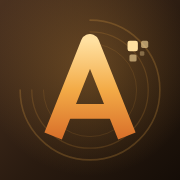
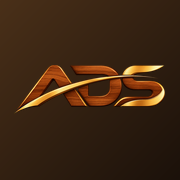
Add files via upload

diff --git a/index.html b/index.html
@@ -3,44 +3,44 @@
 <head>
 <meta charset="UTF-8">
 <meta name="viewport" content="width=device-width,initial-scale=1,viewport-fit=cover">
-<title>ABY Digital | Website &amp; Sistem Digital untuk Bisnis Modern</title>
-<meta name="description" content="Punya ide bisnis? Wujudkan jadi website, sistem informasi & dashboard modern yang siap menarik pelanggan. 19+ project nyata sudah dibangun. Konsultasi GRATIS sekarang!">
+<title>ADS (Abi Digital Solutions) | Website, Toko Online &amp; Sistem Bisnis Modern 2026</title>
+<meta name="description" content="Go Digital, Grow Bigger! ADS (Abi Digital Solutions) membuat website profesional, toko online, aplikasi &amp; dashboard bisnis yang cepat, modern, dan siap menjual. 19+ proyek nyata. Konsultasi GRATIS via WhatsApp.">
 <meta name="theme-color" content="#16100b">
 <meta name="robots" content="index,follow,max-image-preview:large">
 <link rel="manifest" href="manifest.webmanifest">
 <meta name="mobile-web-app-capable" content="yes">
 <meta name="apple-mobile-web-app-capable" content="yes">
-<meta name="apple-mobile-web-app-title" content="ABY Digital">
+<meta name="apple-mobile-web-app-title" content="ADS">
 <meta name="apple-mobile-web-app-status-bar-style" content="black-translucent">
-<meta name="application-name" content="ABY Digital">
+<meta name="application-name" content="ADS (Abi Digital Solutions)">
 <meta name="format-detection" content="telephone=no">
 <link rel="canonical" href="https://benyoriki.github.io/Digital-AB/">
 <meta property="og:type" content="website">
-<meta property="og:site_name" content="ABY Digital">
+<meta property="og:site_name" content="ADS (Abi Digital Solutions)">
 <meta property="og:locale" content="id_ID">
 <meta property="og:url" content="https://benyoriki.github.io/Digital-AB/">
-<meta property="og:title" content="ABY Digital | Website, Toko Online &amp; Sistem Booking untuk Bisnis Modern">
-<meta property="og:description" content="Bisnis Anda layak tampil lebih profesional. Website cepat, rapi di HP &amp; PC, siap menarik pelanggan. 19+ project nyata. Konsultasi GRATIS via WhatsApp 🚀">
-<meta property="og:image" content="https://benyoriki.github.io/Digital-AB/preview-wa.jpg?v=3">
-<meta property="og:image:secure_url" content="https://benyoriki.github.io/Digital-AB/preview-wa.jpg?v=3">
+<meta property="og:title" content="ADS (Abi Digital Solutions) | Website Profesional yang Bikin Bisnis Anda Naik Kelas">
+<meta property="og:description" content="Go Digital, Grow Bigger 🚀 Website, toko online &amp; dashboard modern: cepat, tampil premium, siap menjual. 19+ proyek nyata. Konsultasi GRATIS sekarang!">
+<meta property="og:image" content="https://benyoriki.github.io/Digital-AB/preview-wa.jpg?v=6">
+<meta property="og:image:secure_url" content="https://benyoriki.github.io/Digital-AB/preview-wa.jpg?v=6">
 <meta property="og:image:type" content="image/jpeg">
 <meta property="og:image:width" content="1200">
-<meta property="og:image:height" content="630">
-<meta property="og:image:alt" content="ABY Digital: Solusi Digital untuk Bisnis yang Lebih Cepat. Website, toko online, sistem booking, dashboard. Konsultasi gratis.">
+<meta property="og:image:height" content="628">
+<meta property="og:image:alt" content="ADS (Abi Digital Solutions): Solusi Digital untuk Bisnis Anda. Website profesional, toko online, aplikasi web &amp; mobile, sistem bisnis &amp; dashboard. Go Digital, Grow Bigger!">
 <meta name="twitter:card" content="summary_large_image">
-<meta name="twitter:title" content="ABY Digital | Website, Toko Online &amp; Sistem Booking untuk Bisnis Modern">
-<meta name="twitter:description" content="Bisnis Anda layak tampil lebih profesional. Website cepat, rapi di HP &amp; PC, siap menarik pelanggan. 19+ project nyata. Konsultasi GRATIS via WhatsApp 🚀">
-<meta name="twitter:image" content="https://benyoriki.github.io/Digital-AB/preview-wa.jpg?v=3">
+<meta name="twitter:title" content="ADS (Abi Digital Solutions) | Website Profesional yang Bikin Bisnis Anda Naik Kelas">
+<meta name="twitter:description" content="Go Digital, Grow Bigger 🚀 Website, toko online &amp; dashboard modern: cepat, tampil premium, siap menjual. 19+ proyek nyata. Konsultasi GRATIS sekarang!">
+<meta name="twitter:image" content="https://benyoriki.github.io/Digital-AB/preview-wa.jpg?v=6">
 <link rel="icon" type="image/png" sizes="32x32" href="icons/favicon-32.png">
 <link rel="icon" type="image/png" sizes="64x64" href="favicon.png">
 <link rel="apple-touch-icon" href="apple-touch-icon.png">
-<link rel="preload" as="image" href="assets/logo-384.webp" type="image/webp">
+<link rel="preload" as="image" href="assets/logo-wide.webp" type="image/webp">
 <link rel="preconnect" href="https://fonts.googleapis.com">
 <link rel="preconnect" href="https://fonts.gstatic.com" crossorigin>
 <link href="https://fonts.googleapis.com/css2?family=Fraunces:wght@700;800&family=Plus+Jakarta+Sans:wght@400;500;600;700;800&display=swap" rel="stylesheet">
 <link rel="stylesheet" href="style.css">
-<script type="application/ld+json">{"@context":"https://schema.org","@type":"ProfessionalService","name":"ABY Digital","url":"https://benyoriki.github.io/Digital-AB/","image":"https://benyoriki.github.io/Digital-AB/preview-wa.jpg?v=3","telephone":"+6285694993097","description":"Jasa pembuatan website, sistem informasi, dashboard dan solusi digital untuk bisnis.","areaServed":"ID","sameAs":[]}</script>
-<script type="application/ld+json">{"@context": "https://schema.org", "@type": "FAQPage", "mainEntity": [{"@type": "Question", "name": "Berapa biaya pembuatan website?", "acceptedAnswer": {"@type": "Answer", "text": "Setiap bisnis punya kebutuhan berbeda, jadi biaya disusun sesuai fitur, kompleksitas, dan jenis project Anda, bukan paket seragam yang membuat Anda membayar fitur yang tidak dipakai. Ceritakan ide Anda lewat WhatsApp dan Anda akan menerima penawaran yang jelas sebelum pengerjaan dimulai. Konsultasi awal 100% gratis."}}, {"@type": "Question", "name": "Berapa lama website selesai dikerjakan?", "acceptedAnswer": {"@type": "Answer", "text": "Tergantung ruang lingkupnya. Website profil atau katalog umumnya lebih cepat, sedangkan sistem dengan dashboard, booking, atau database memerlukan tahapan yang lebih panjang. Estimasi waktu disepakati sejak awal, dan Anda bisa memantau perkembangannya di setiap tahap."}}, {"@type": "Question", "name": "Apakah website nyaman dibuka di HP?", "acceptedAnswer": {"@type": "Answer", "text": "Sangat nyaman. Setiap website dirancang mobile-first: tampil rapi di HP, tablet, dan desktop, ringan saat dibuka, dan tombolnya mudah disentuh. Ini penting karena sebagian besar calon pelanggan kini mencari bisnis lewat HP."}}, {"@type": "Question", "name": "Bisakah website dipasang seperti aplikasi di HP?", "acceptedAnswer": {"@type": "Answer", "text": "Bisa. Dengan teknologi PWA, website dapat dipasang ke layar utama HP lengkap dengan ikon sendiri, terbuka layaknya aplikasi, dan tetap bisa diakses saat koneksi lemah. Website ABY Digital ini sendiri sudah mendukungnya: ketuk tombol Install untuk mencobanya."}}, {"@type": "Question", "name": "Jenis website apa saja yang bisa dibuat?", "acceptedAnswer": {"@type": "Answer", "text": "Website bisnis dan company profile, katalog produk, toko online, sistem booking dan antrean, sistem informasi, dashboard monitoring, hingga aplikasi web khusus. Lihat 19+ project nyata di bagian Portfolio, semuanya bisa dicoba langsung."}}, {"@type": "Question", "name": "Apakah bisa menambah fitur setelah website selesai?", "acceptedAnswer": {"@type": "Answer", "text": "Bisa. Tersedia layanan maintenance dan pengembangan untuk perbaikan, update konten, penambahan fitur, dan optimasi. Website Anda dibangun agar mudah berkembang mengikuti pertumbuhan bisnis."}}, {"@type": "Question", "name": "Bagaimana dengan domain dan hosting?", "acceptedAnswer": {"@type": "Answer", "text": "Website dipublikasikan hingga benar-benar siap digunakan. Opsi domain dan hosting dibahas bersama sesuai kebutuhan dan anggaran Anda, sehingga Anda tidak perlu bingung soal teknis."}}, {"@type": "Question", "name": "Bagaimana cara memulai?", "acceptedAnswer": {"@type": "Answer", "text": "Cukup tiga langkah: klik tombol WhatsApp, ceritakan kebutuhan dan target bisnis Anda, lalu kita susun rencana dan penawaran yang sesuai. Alur lengkapnya bisa dilihat di bagian Proses Kerja."}}]}</script>
+<script type="application/ld+json">{"@context":"https://schema.org","@type":"ProfessionalService","name":"ADS (Abi Digital Solutions)","alternateName":["ADS","Abi Digital Solutions"],"url":"https://benyoriki.github.io/Digital-AB/","image":"https://benyoriki.github.io/Digital-AB/preview-wa.jpg?v=6","telephone":"+6285694993097","description":"Jasa pembuatan website, sistem informasi, dashboard dan solusi digital untuk bisnis.","areaServed":"ID","sameAs":[]}</script>
+<script type="application/ld+json">{"@context": "https://schema.org", "@type": "FAQPage", "mainEntity": [{"@type": "Question", "name": "Berapa biaya pembuatan website?", "acceptedAnswer": {"@type": "Answer", "text": "Setiap bisnis punya kebutuhan berbeda, jadi biaya disusun sesuai fitur, kompleksitas, dan jenis project Anda, bukan paket seragam yang membuat Anda membayar fitur yang tidak dipakai. Ceritakan ide Anda lewat WhatsApp dan Anda akan menerima penawaran yang jelas sebelum pengerjaan dimulai. Konsultasi awal 100% gratis."}}, {"@type": "Question", "name": "Berapa lama website selesai dikerjakan?", "acceptedAnswer": {"@type": "Answer", "text": "Tergantung ruang lingkupnya. Website profil atau katalog umumnya lebih cepat, sedangkan sistem dengan dashboard, booking, atau database memerlukan tahapan yang lebih panjang. Estimasi waktu disepakati sejak awal, dan Anda bisa memantau perkembangannya di setiap tahap."}}, {"@type": "Question", "name": "Apakah website nyaman dibuka di HP?", "acceptedAnswer": {"@type": "Answer", "text": "Sangat nyaman. Setiap website dirancang mobile-first: tampil rapi di HP, tablet, dan desktop, ringan saat dibuka, dan tombolnya mudah disentuh. Ini penting karena sebagian besar calon pelanggan kini mencari bisnis lewat HP."}}, {"@type": "Question", "name": "Bisakah website dipasang seperti aplikasi di HP?", "acceptedAnswer": {"@type": "Answer", "text": "Bisa. Dengan teknologi PWA, website dapat dipasang ke layar utama HP lengkap dengan ikon sendiri, terbuka layaknya aplikasi, dan tetap bisa diakses saat koneksi lemah. Website ADS (Abi Digital Solutions) ini sendiri sudah mendukungnya: ketuk tombol Install untuk mencobanya."}}, {"@type": "Question", "name": "Jenis website apa saja yang bisa dibuat?", "acceptedAnswer": {"@type": "Answer", "text": "Website bisnis dan company profile, katalog produk, toko online, sistem booking dan antrean, sistem informasi, dashboard monitoring, hingga aplikasi web khusus. Lihat 19+ project nyata di bagian Portfolio, semuanya bisa dicoba langsung."}}, {"@type": "Question", "name": "Apakah bisa menambah fitur setelah website selesai?", "acceptedAnswer": {"@type": "Answer", "text": "Bisa. Tersedia layanan maintenance dan pengembangan untuk perbaikan, update konten, penambahan fitur, dan optimasi. Website Anda dibangun agar mudah berkembang mengikuti pertumbuhan bisnis."}}, {"@type": "Question", "name": "Bagaimana dengan domain dan hosting?", "acceptedAnswer": {"@type": "Answer", "text": "Website dipublikasikan hingga benar-benar siap digunakan. Opsi domain dan hosting dibahas bersama sesuai kebutuhan dan anggaran Anda, sehingga Anda tidak perlu bingung soal teknis."}}, {"@type": "Question", "name": "Bagaimana cara memulai?", "acceptedAnswer": {"@type": "Answer", "text": "Cukup tiga langkah: klik tombol WhatsApp, ceritakan kebutuhan dan target bisnis Anda, lalu kita susun rencana dan penawaran yang sesuai. Alur lengkapnya bisa dilihat di bagian Proses Kerja."}}]}</script>
 <script>
 (function(){var d=document.documentElement;d.classList.add('js','ld-on');var t;try{t=localStorage.getItem('theme')}catch(e){}
 if(!t)t=(window.matchMedia&&matchMedia('(prefers-color-scheme: light)').matches)?'light':'dark';d.dataset.theme=t;
@@ -55,10 +55,10 @@ var m=document.querySelector('meta[name=theme-color]');if(m)m.content=t==='light
   <i class="ld-glow" aria-hidden="true"></i><i class="ld-pt" aria-hidden="true"></i>
   <div class="ld-in">
     <div class="ld-mark">
-      <svg class="ld-ring" viewBox="0 0 120 120" aria-hidden="true"><defs><linearGradient id="ldg" x1="0" y1="0" x2="1" y2="1"><stop offset="0" stop-color="#ffe6b8"/><stop offset=".55" stop-color="#f2b050"/><stop offset="1" stop-color="#e8903a"/></linearGradient></defs><rect class="trk" x="6" y="6" width="108" height="108" rx="28"/><rect class="val" id="ldring" x="6" y="6" width="108" height="108" rx="28" pathLength="100"/></svg>
-      <img src="assets/logo-384.webp" alt="" width="384" height="384">
+      <svg class="ld-ring" viewBox="0 0 260 100" aria-hidden="true"><defs><linearGradient id="ldg" x1="0" y1="0" x2="1" y2="1"><stop offset="0" stop-color="#ffe6b8"/><stop offset=".55" stop-color="#f2b050"/><stop offset="1" stop-color="#e8903a"/></linearGradient></defs><rect class="trk" x="3" y="3" width="254" height="94" rx="26"/><rect class="val" id="ldring" x="3" y="3" width="254" height="94" rx="26" pathLength="100"/></svg>
+      <img src="assets/logo-wide.webp" alt="ADS" width="900" height="345">
     </div>
-    <div class="ld-name" aria-hidden="true"><b><i style="--i:0">A</i><i style="--i:1">B</i><i style="--i:2">Y</i></b><b><i style="--i:3">D</i><i style="--i:4">i</i><i style="--i:5">g</i><i style="--i:6">i</i><i style="--i:7">t</i><i style="--i:8">a</i><i style="--i:9">l</i></b></div>
+    <div class="ld-name" aria-hidden="true"><b class="sub"><i style="--i:4">Abi</i><i style="--i:5">Digital</i><i style="--i:6">Solutions</i></b></div>
     <div class="ld-tag">Digital Solutions for Modern Business</div>
     <div class="ld-pct" aria-hidden="true"><b id="ldn">0</b><span>%</span></div>
     <div class="ld-tx" id="ldtx">Menyiapkan tampilan…</div>
@@ -71,13 +71,13 @@ var m=document.querySelector('meta[name=theme-color]');if(m)m.content=t==='light
 
 <header class="nav" id="nav">
   <div class="nav-in">
-    <a class="logo" href="#home" aria-label="ABY Digital"><img src="assets/logo-128.webp" alt="" width="44" height="44"><span>ABY<i>Digital</i></span></a>
+    <a class="logo" href="#home" aria-label="ADS (Abi Digital Solutions)"><img src="assets/logo-wide.webp" alt="ADS" width="900" height="345"><span><i>Abi Digital Solutions</i></span></a>
     <nav id="menu" aria-label="Menu utama">
       <a href="#home">Home</a><a href="#layanan">Layanan</a><a href="#portfolio">Portfolio</a><a href="#tentang">Tentang</a><a href="#proses">Proses Kerja</a><a href="#kontak">Kontak</a>
       <a class="menu-cta" data-wa href="#">Konsultasi Gratis</a>
     </nav>
     <a class="btn sm wa nav-cta" data-wa href="#">Konsultasi Gratis</a>
-    <button class="btn sm ghost install-btn" id="inst" type="button" hidden aria-label="Install aplikasi ABY Digital"><span data-icon="download"></span><b>Install</b></button>
+    <button class="btn sm ghost install-btn" id="inst" type="button" hidden aria-label="Install aplikasi ADS (Abi Digital Solutions)"><span data-icon="download"></span><b>Install</b></button>
     <button class="icon-btn" id="theme" aria-label="Ganti mode terang/gelap"><span class="sun" data-icon="sun"></span><span class="moon" data-icon="moon"></span></button>
     <button class="icon-btn burger" id="burger" aria-label="Buka menu" aria-expanded="false" aria-controls="menu"><i></i><i></i><i></i></button>
   </div>
@@ -123,10 +123,10 @@ var m=document.querySelector('meta[name=theme-color]');if(m)m.content=t==='light
 
 <!-- TENTANG -->
 <section class="sec" id="tentang"><div class="wrap about">
-  <div class="photo rv" id="photo"><div class="bcard"><div class="bglow" aria-hidden="true"></div><img src="assets/logo-384.webp" alt="Logo ABY Digital" width="384" height="384" loading="lazy"><strong>ABY Digital</strong><small>Digital Solutions for Modern Business</small><ul class="bmini"><li><b>19+</b>Proyek</li><li><b>6</b>Layanan</li><li><b>24/7</b>Online</li></ul></div><span class="pbadge"><b>19</b> proyek nyata</span></div>
+  <div class="photo rv" id="photo"><div class="bcard"><div class="bglow" aria-hidden="true"></div><img src="assets/logo-wide.webp" alt="Logo ADS (Abi Digital Solutions)" width="900" height="345" loading="lazy"><strong>Abi Digital Solutions</strong><small>Digital Solutions for Modern Business</small><ul class="bmini"><li><b>19+</b>Proyek</li><li><b>6</b>Layanan</li><li><b>24/7</b>Online</li></ul></div><span class="pbadge"><b>19</b> proyek nyata</span></div>
   <div class="rv">
     <span class="eyebrow">Tentang</span>
-    <h2>Kenalan dengan <em>ABY Digital.</em></h2>
+    <h2>Kenalan dengan <em>ADS (Abi Digital Solutions).</em></h2>
     <p>Saya berfokus pada pengembangan website dan sistem digital yang dirancang untuk membantu bisnis, usaha, dan organisasi bekerja lebih efektif, tampil lebih profesional, serta memiliki solusi digital sesuai kebutuhan.</p>
     <p class="mut" id="exp" hidden></p>
     <ul class="points" id="points"></ul>
@@ -144,7 +144,7 @@ var m=document.querySelector('meta[name=theme-color]');if(m)m.content=t==='light
 <!-- FAQ -->
 <section class="sec" id="faq"><div class="wrap faqw">
   <div class="head rv faqh"><span class="eyebrow">FAQ</span><h2>Jawaban sebelum Anda <em>memutuskan.</em></h2><p>Hal-hal yang paling sering ditanyakan calon klien, dijawab singkat dan jujur.</p></div>
-  <div class="faq rv" id="faqlist"><details open><summary>Berapa biaya pembuatan website?</summary><p>Setiap bisnis punya kebutuhan berbeda, jadi biaya disusun sesuai fitur, kompleksitas, dan jenis project Anda, bukan paket seragam yang membuat Anda membayar fitur yang tidak dipakai. Ceritakan ide Anda lewat WhatsApp dan Anda akan menerima penawaran yang jelas sebelum pengerjaan dimulai. Konsultasi awal 100% gratis.</p></details><details><summary>Berapa lama website selesai dikerjakan?</summary><p>Tergantung ruang lingkupnya. Website profil atau katalog umumnya lebih cepat, sedangkan sistem dengan dashboard, booking, atau database memerlukan tahapan yang lebih panjang. Estimasi waktu disepakati sejak awal, dan Anda bisa memantau perkembangannya di setiap tahap.</p></details><details><summary>Apakah website nyaman dibuka di HP?</summary><p>Sangat nyaman. Setiap website dirancang mobile-first: tampil rapi di HP, tablet, dan desktop, ringan saat dibuka, dan tombolnya mudah disentuh. Ini penting karena sebagian besar calon pelanggan kini mencari bisnis lewat HP.</p></details><details><summary>Bisakah website dipasang seperti aplikasi di HP?</summary><p>Bisa. Dengan teknologi PWA, website dapat dipasang ke layar utama HP lengkap dengan ikon sendiri, terbuka layaknya aplikasi, dan tetap bisa diakses saat koneksi lemah. Website ABY Digital ini sendiri sudah mendukungnya: ketuk tombol Install untuk mencobanya.</p></details><details><summary>Jenis website apa saja yang bisa dibuat?</summary><p>Website bisnis dan company profile, katalog produk, toko online, sistem booking dan antrean, sistem informasi, dashboard monitoring, hingga aplikasi web khusus. Lihat 19+ project nyata di bagian Portfolio, semuanya bisa dicoba langsung.</p></details><details><summary>Apakah bisa menambah fitur setelah website selesai?</summary><p>Bisa. Tersedia layanan maintenance dan pengembangan untuk perbaikan, update konten, penambahan fitur, dan optimasi. Website Anda dibangun agar mudah berkembang mengikuti pertumbuhan bisnis.</p></details><details><summary>Bagaimana dengan domain dan hosting?</summary><p>Website dipublikasikan hingga benar-benar siap digunakan. Opsi domain dan hosting dibahas bersama sesuai kebutuhan dan anggaran Anda, sehingga Anda tidak perlu bingung soal teknis.</p></details><details><summary>Bagaimana cara memulai?</summary><p>Cukup tiga langkah: klik tombol WhatsApp, ceritakan kebutuhan dan target bisnis Anda, lalu kita susun rencana dan penawaran yang sesuai. Alur lengkapnya bisa dilihat di bagian Proses Kerja.</p></details></div>
+  <div class="faq rv" id="faqlist"><details open><summary>Berapa biaya pembuatan website?</summary><p>Setiap bisnis punya kebutuhan berbeda, jadi biaya disusun sesuai fitur, kompleksitas, dan jenis project Anda, bukan paket seragam yang membuat Anda membayar fitur yang tidak dipakai. Ceritakan ide Anda lewat WhatsApp dan Anda akan menerima penawaran yang jelas sebelum pengerjaan dimulai. Konsultasi awal 100% gratis.</p></details><details><summary>Berapa lama website selesai dikerjakan?</summary><p>Tergantung ruang lingkupnya. Website profil atau katalog umumnya lebih cepat, sedangkan sistem dengan dashboard, booking, atau database memerlukan tahapan yang lebih panjang. Estimasi waktu disepakati sejak awal, dan Anda bisa memantau perkembangannya di setiap tahap.</p></details><details><summary>Apakah website nyaman dibuka di HP?</summary><p>Sangat nyaman. Setiap website dirancang mobile-first: tampil rapi di HP, tablet, dan desktop, ringan saat dibuka, dan tombolnya mudah disentuh. Ini penting karena sebagian besar calon pelanggan kini mencari bisnis lewat HP.</p></details><details><summary>Bisakah website dipasang seperti aplikasi di HP?</summary><p>Bisa. Dengan teknologi PWA, website dapat dipasang ke layar utama HP lengkap dengan ikon sendiri, terbuka layaknya aplikasi, dan tetap bisa diakses saat koneksi lemah. Website ADS (Abi Digital Solutions) ini sendiri sudah mendukungnya: ketuk tombol Install untuk mencobanya.</p></details><details><summary>Jenis website apa saja yang bisa dibuat?</summary><p>Website bisnis dan company profile, katalog produk, toko online, sistem booking dan antrean, sistem informasi, dashboard monitoring, hingga aplikasi web khusus. Lihat 19+ project nyata di bagian Portfolio, semuanya bisa dicoba langsung.</p></details><details><summary>Apakah bisa menambah fitur setelah website selesai?</summary><p>Bisa. Tersedia layanan maintenance dan pengembangan untuk perbaikan, update konten, penambahan fitur, dan optimasi. Website Anda dibangun agar mudah berkembang mengikuti pertumbuhan bisnis.</p></details><details><summary>Bagaimana dengan domain dan hosting?</summary><p>Website dipublikasikan hingga benar-benar siap digunakan. Opsi domain dan hosting dibahas bersama sesuai kebutuhan dan anggaran Anda, sehingga Anda tidak perlu bingung soal teknis.</p></details><details><summary>Bagaimana cara memulai?</summary><p>Cukup tiga langkah: klik tombol WhatsApp, ceritakan kebutuhan dan target bisnis Anda, lalu kita susun rencana dan penawaran yang sesuai. Alur lengkapnya bisa dilihat di bagian Proses Kerja.</p></details></div>
   <div class="faqcta rv"><div class="ic" data-icon="chat"></div><div><h3>Masih ragu atau punya ide khusus?</h3><p>Ceritakan kebutuhan Anda. Dapatkan arahan awal dan gambaran solusi, gratis dan tanpa komitmen.</p></div><a class="btn wa" data-wa href="#"><span data-icon="whatsapp"></span>Tanya via WhatsApp</a></div>
 </div></section>
 
@@ -160,7 +160,7 @@ var m=document.querySelector('meta[name=theme-color]');if(m)m.content=t==='light
 
 <!-- KONTAK -->
 <section class="sec" id="kontak"><div class="wrap">
-  <div class="head rv"><span class="eyebrow">Kontak</span><h2>Hubungi ABY Digital untuk <em>diskusi project Anda.</em></h2><p>Ceritakan kebutuhan Anda, lalu lanjut ngobrol langsung lewat WhatsApp.</p></div>
+  <div class="head rv"><span class="eyebrow">Kontak</span><h2>Hubungi ADS untuk <em>diskusi project Anda.</em></h2><p>Ceritakan kebutuhan Anda, lalu lanjut ngobrol langsung lewat WhatsApp.</p></div>
   <div class="cgrid">
     <div class="cleft">
       <div class="contacts" id="contacts"></div>
@@ -178,7 +178,7 @@ var m=document.querySelector('meta[name=theme-color]');if(m)m.content=t==='light
 </div></section>
 </main>
 
-<footer><div class="wrap foot"><div class="fb"><div class="fbrand"><img src="assets/logo-128.webp" alt="" width="44" height="44" loading="lazy"><strong>ABY Digital</strong></div><p>Digital Solutions for Modern Business.</p><button class="btn sm ghost install-btn" id="inst2" type="button" hidden><span data-icon="download"></span>Install Aplikasi</button></div><div><h4>Menu</h4><nav id="fnav" aria-label="Menu footer"></nav></div><div><h4>Hubungi</h4><div id="fsoc"></div></div></div><div class="wm" aria-hidden="true">ABY Digital</div><p class="copy">© <span id="yr"></span> ABY Digital. All rights reserved.</p></footer>
+<footer><div class="wrap foot"><div class="fb"><div class="fbrand"><img src="assets/logo-wide.webp" alt="ADS" width="900" height="345" loading="lazy"><strong><small>Abi Digital Solutions</small></strong></div><p>Digital Solutions for Modern Business.</p><button class="btn sm ghost install-btn" id="inst2" type="button" hidden><span data-icon="download"></span>Install Aplikasi</button></div><div><h4>Menu</h4><nav id="fnav" aria-label="Menu footer"></nav></div><div><h4>Hubungi</h4><div id="fsoc"></div></div></div><div class="wm" aria-hidden="true">ADS</div><p class="copy">© <span id="yr"></span> ADS (Abi Digital Solutions). All rights reserved.</p></footer>
 
 <a class="fab" data-wa href="#" aria-label="Chat WhatsApp"><span data-icon="whatsapp"></span><b>WhatsApp</b></a>
 <button class="top" id="top" aria-label="Kembali ke atas"><span data-icon="up"></span></button>

diff --git a/script.js b/script.js
@@ -1,7 +1,7 @@
 /* ============ LOADING SCREEN 2026 — progres nyata + pintu kayu terbuka ============ */
 (function () {
   const root = document.documentElement, ld = document.getElementById("ld");
-  const go = () => { root.classList.remove("ld-on"); root.classList.add("ready"); document.dispatchEvent(new Event("aby-ready")); };
+  const go = () => { root.classList.remove("ld-on"); root.classList.add("ready"); document.dispatchEvent(new Event("ads-ready")); };
   if (!ld) { go(); return; }
   const reduce = matchMedia("(prefers-reduced-motion: reduce)").matches;
   const MIN = reduce ? 500 : 2100, MAX = 4500, t0 = performance.now();
@@ -29,10 +29,10 @@
 })();
 /* ============ KONFIGURASI — EDIT DI SINI ============ */
 const CONFIG = {
-  brand: "ABY Digital",
-  name: "ABY Digital",
+  brand: "ADS (Abi Digital Solutions)",
+  name: "ADS (Abi Digital Solutions)",
   whatsapp: "6285694993097", // satu-satunya tempat nomor WhatsApp
-  defaultMsg: "Halo ABY Digital, saya tertarik dengan jasa pembuatan website/sistem. Saya ingin konsultasi mengenai kebutuhan project saya.",
+  defaultMsg: "Halo ADS (Abi Digital Solutions), saya tertarik dengan jasa pembuatan website/sistem. Saya ingin konsultasi mengenai kebutuhan project saya.",
   why: [
     ["bolt", "Cepat & Ringan", "Dibuat ringan agar cepat dibuka, bahkan di koneksi biasa dan perangkat lama."],
     ["phone", "Responsive HP & PC", "Tampilan rapi dan nyaman di HP, tablet, maupun desktop."],
@@ -137,13 +137,13 @@ document.addEventListener("DOMContentLoaded", () => {
   $("#why").innerHTML = CONFIG.why.map((w, i) => `<li class="spot rv" style="--d:${i * .06}s"><span class="ic">${ico(w[0])}</span><h3>${esc(w[1])}</h3><p>${esc(w[2])}</p></li>`).join("");
 
   /* Layanan (bento) */
-  $("#svc").innerHTML = CONFIG.services.map((s, i) => `<article class="spot rv" style="--d:${i * .06}s"><div class="ic">${ico(s.icon)}</div><div class="tx"><h3>${esc(s.title)}</h3><p>${esc(s.desc)}</p></div><ul>${s.perks.map(p => `<li>${ico("check")}${esc(p)}</li>`).join("")}</ul><a class="lnk" target="_blank" rel="noopener" href="${waLink(`Halo ABY Digital, saya tertarik dengan jasa ${s.title}. Boleh konsultasi?`)}">Konsultasi via WhatsApp ${ico("arrow")}</a></article>`).join("");
+  $("#svc").innerHTML = CONFIG.services.map((s, i) => `<article class="spot rv" style="--d:${i * .06}s"><div class="ic">${ico(s.icon)}</div><div class="tx"><h3>${esc(s.title)}</h3><p>${esc(s.desc)}</p></div><ul>${s.perks.map(p => `<li>${ico("check")}${esc(p)}</li>`).join("")}</ul><a class="lnk" target="_blank" rel="noopener" href="${waLink(`Halo ADS (Abi Digital Solutions), saya tertarik dengan jasa ${s.title}. Boleh konsultasi?`)}">Konsultasi via WhatsApp ${ico("arrow")}</a></article>`).join("");
 
   /* Portfolio */
   const filters = ["Semua", ...cats];
   const count = f => f === "Semua" ? P.length : P.filter(p => p.filter === f).length;
   $("#flt").innerHTML = filters.map((f, i) => `<button class="chip${i ? "" : " on"}" aria-pressed="${!i}" data-f="${esc(f)}">${esc(f)}<b>${count(f)}</b></button>`).join("");
-  $("#grid").innerHTML = P.map((p, i) => `<article class="card spot proj" data-f="${esc(p.filter)}" style="--accent:${p.accent}"><div class="shotw"><div class="sbar"><s></s><s></s><s></s><span>${esc(hostOf(p.url))}</span></div><button class="shot" data-i="${i}" aria-label="Lihat detail ${esc(p.title)}"><img src="${esc(p.img)}" alt="Screenshot website ${esc(p.title)}" width="800" height="500" loading="lazy" decoding="async"></button></div><div class="pb"><div class="pcat"><i></i>${esc(p.cat)}</div><h3>${esc(p.title)}</h3><p>${esc(p.desc)}</p><div class="chips">${p.feat.map(t => `<span>${esc(t)}</span>`).join("")}</div><div class="pact"><button class="btn sm wa" data-i="${i}">${ico("play")}Preview</button><a class="btn sm ghost" href="${esc(p.url)}" target="_blank" rel="noopener">${ico("ext")}Buka Website</a></div><a class="pwa" target="_blank" rel="noopener" href="${waLink(`Halo ABY Digital, saya tertarik bikin website mirip ${p.title}. Boleh konsultasi?`)}"><span>Mau seperti ini?</span><b>Chat Sekarang →</b></a></div></article>`).join("");
+  $("#grid").innerHTML = P.map((p, i) => `<article class="card spot proj" data-f="${esc(p.filter)}" style="--accent:${p.accent}"><div class="shotw"><div class="sbar"><s></s><s></s><s></s><span>${esc(hostOf(p.url))}</span></div><button class="shot" data-i="${i}" aria-label="Lihat detail ${esc(p.title)}"><img src="${esc(p.img)}" alt="Screenshot website ${esc(p.title)}" width="800" height="500" loading="lazy" decoding="async"></button></div><div class="pb"><div class="pcat"><i></i>${esc(p.cat)}</div><h3>${esc(p.title)}</h3><p>${esc(p.desc)}</p><div class="chips">${p.feat.map(t => `<span>${esc(t)}</span>`).join("")}</div><div class="pact"><button class="btn sm wa" data-i="${i}">${ico("play")}Preview</button><a class="btn sm ghost" href="${esc(p.url)}" target="_blank" rel="noopener">${ico("ext")}Buka Website</a></div><a class="pwa" target="_blank" rel="noopener" href="${waLink(`Halo ADS (Abi Digital Solutions), saya tertarik bikin website mirip ${p.title}. Boleh konsultasi?`)}"><span>Mau seperti ini?</span><b>Chat Sekarang →</b></a></div></article>`).join("");
   const cards = $$("#grid .proj"), LIMIT = 6;
   let flt = "Semua", expanded = false, first = true;
   const matches = () => P.map((p, i) => i).filter(i => flt === "Semua" || P[i].filter === flt);
@@ -171,7 +171,7 @@ document.addEventListener("DOMContentLoaded", () => {
     dlg.style.setProperty("--accent", p.accent);
     $("#dl").textContent = p.cat; $("#dt").textContent = p.title; $("#dd").textContent = p.desc;
     $("#dchips").innerHTML = p.feat.map(t => `<span style="--accent:${p.accent}">${esc(t)}</span>`).join("");
-    $("#dbtn").innerHTML = `<button class="btn sm wa" id="dlive">${ico("play")}Preview Langsung</button><a class="btn sm ghost" href="${esc(p.url)}" target="_blank" rel="noopener">${ico("ext")}Buka Website</a><a class="btn sm ghost" target="_blank" rel="noopener" href="${waLink(`Halo ABY Digital, saya tertarik bikin website mirip ${p.title}. Boleh konsultasi?`)}">${ico("whatsapp")}Mau seperti ini?</a>`;
+    $("#dbtn").innerHTML = `<button class="btn sm wa" id="dlive">${ico("play")}Preview Langsung</button><a class="btn sm ghost" href="${esc(p.url)}" target="_blank" rel="noopener">${ico("ext")}Buka Website</a><a class="btn sm ghost" target="_blank" rel="noopener" href="${waLink(`Halo ADS (Abi Digital Solutions), saya tertarik bikin website mirip ${p.title}. Boleh konsultasi?`)}">${ico("whatsapp")}Mau seperti ini?</a>`;
     $("#dlive").onclick = () => { live = !live; const b = $("#dlive");
       $("#dshot").innerHTML = live ? `<iframe src="${esc(p.url)}" title="Preview ${esc(p.title)}" loading="lazy" referrerpolicy="no-referrer"></iframe>` : shotHtml(p);
       b.innerHTML = live ? ico("img") + "Lihat Screenshot" : ico("play") + "Preview Langsung"; };
@@ -211,7 +211,7 @@ document.addEventListener("DOMContentLoaded", () => {
   if (lead) {
     lead.elements.jenis.innerHTML = `<option value="">Pilih jenis project…</option>` + CONFIG.services.map(x => `<option>${esc(x.title)}</option>`).join("") + `<option>Belum tahu, ingin konsultasi dulu</option>`;
     lead.addEventListener("submit", e => { e.preventDefault(); const f = lead.elements, nama = f.nama.value.trim(), jenis = f.jenis.value, pesan = f.pesan.value.trim();
-      const m = "Halo ABY Digital" + (nama ? `, saya ${nama}` : "") + ". " + (jenis ? `Saya ingin konsultasi tentang ${jenis}.` : "Saya ingin konsultasi mengenai kebutuhan project saya.") + (pesan ? `\n\nGambaran kebutuhan: ${pesan}` : "");
+      const m = "Halo ADS (Abi Digital Solutions)" + (nama ? `, saya ${nama}` : "") + ". " + (jenis ? `Saya ingin konsultasi tentang ${jenis}.` : "Saya ingin konsultasi mengenai kebutuhan project saya.") + (pesan ? `\n\nGambaran kebutuhan: ${pesan}` : "");
       window.open(waLink(m), "_blank", "noopener"); });
   }
 
@@ -241,7 +241,7 @@ document.addEventListener("DOMContentLoaded", () => {
   let counted = false;
   const runCount = () => { if (counted) return; counted = true; $$("#stats b").forEach(b => { const m = b.textContent.match(/^(\d+)(.*)$/); if (!m || reduce) return; const n = +m[1], t0 = performance.now();
     (function f(t) { const k = Math.min(1, (t - t0) / 1200); b.textContent = Math.round(n * (1 - Math.pow(1 - k, 3))) + m[2]; if (k < 1) requestAnimationFrame(f); })(t0); }); };
-  if (root.classList.contains("ready")) setTimeout(runCount, 500); else { document.addEventListener("aby-ready", () => setTimeout(runCount, 500), { once: true }); setTimeout(runCount, 6500); }
+  if (root.classList.contains("ready")) setTimeout(runCount, 500); else { document.addEventListener("ads-ready", () => setTimeout(runCount, 500), { once: true }); setTimeout(runCount, 6500); }
 
   /* Cahaya mengikuti kursor (hanya mouse) */
   if (matchMedia("(hover:hover) and (pointer:fine)").matches && !reduce) { const cur = $("#cur"); let cx = 0, cy = 0, tk2 = false;
@@ -287,3 +287,5 @@ document.addEventListener("DOMContentLoaded", () => {
   /* Spotlight kartu */
   document.addEventListener("pointermove", e => { const el = e.target.closest && e.target.closest(".spot"); if (!el) return; const r = el.getBoundingClientRect(); el.style.setProperty("--mx", e.clientX - r.left + "px"); el.style.setProperty("--my", e.clientY - r.top + "px"); }, { passive: true });
 });
+/* header: mengecil & lebih pekat saat di-scroll */
+(() => { const n = document.getElementById("nav"); if (!n) return; const f = () => n.classList.toggle("scrolled", scrollY > 24); addEventListener("scroll", f, { passive: true }); f(); })();

diff --git a/style.css b/style.css
@@ -1,4 +1,4 @@
-/* ABY Digital — design system 2026 · tema KAYU (terang & gelap) · mobile-first, ringan (tanpa library) */
+/* ADS (Abi Digital Solutions) — design system 2026 · tema KAYU (terang & gelap) · mobile-first, ringan (tanpa library) */
 :root{color-scheme:dark;
   --bg:#16100b;--bg2:#1e1610;--bg3:#2a1e15;
   --card:rgba(37,27,19,.9);--card-b:rgba(244,196,120,.15);--card-h:rgba(52,38,26,.95);
@@ -52,8 +52,8 @@ h1,h2{font-family:var(--serif)}
   border:1px solid var(--card-b);box-shadow:0 12px 34px var(--shadow),inset 0 1px 0 var(--hl),inset 0 -2px 0 var(--seam)}
 .logo{display:flex;align-items:center;gap:11px;font-weight:800;margin-right:auto;min-width:0}
 .logo img{flex:none;width:44px;height:44px;object-fit:contain;filter:drop-shadow(0 4px 8px rgba(0,0,0,.35))}
-.logo span{display:flex;flex-direction:column;line-height:1.1;font-family:var(--serif);font-size:19px;font-weight:800;white-space:nowrap;letter-spacing:-.01em}
-.logo span i{font-style:normal;font-family:var(--font);font-weight:700;font-size:.62em;letter-spacing:.32em;text-transform:uppercase;color:var(--acc);margin-top:3px}
+.logo span{display:flex;flex-direction:column;line-height:1.1;font-family:var(--serif);font-size:23px;font-weight:800;white-space:nowrap;letter-spacing:-.01em}
+.logo span i{font-style:normal;font-family:var(--font);font-weight:700;font-size:9.5px;letter-spacing:.17em;text-transform:uppercase;color:var(--acc);margin-top:4px}
 .logo small{display:none}
 .icon-btn{flex:none;width:44px;height:44px;border-radius:50%;border:1px solid var(--card-b);background:var(--card);cursor:pointer;display:grid;place-items:center;font-size:18px;transition:transform .2s,background .2s,border-color .2s}
 .icon-btn:hover{background:var(--card-h);transform:scale(1.06);border-color:var(--acc)}
@@ -268,13 +268,14 @@ footer{border-top:1px solid rgba(244,196,120,.25);padding:48px 0 calc(100px + en
   background:linear-gradient(180deg,rgba(18,12,7,.72),rgba(18,12,7,.9)),url(assets/tex/wood-dark.webp);background-size:auto,960px}
 .foot{display:grid;grid-template-columns:1fr 1fr;gap:30px 24px}.foot .fb{grid-column:1/-1}
 .foot p{color:#c6b49b;margin-top:6px;font-size:15px}.foot strong{font-family:var(--serif);font-size:1.3rem;letter-spacing:-.01em}
+.fbrand strong{display:flex;flex-direction:column;line-height:1.1;font-family:var(--serif);font-size:20px}.fbrand strong small{font:700 10px/1.2 var(--font);letter-spacing:.17em;text-transform:uppercase;color:var(--acc);margin-top:4px}
 .fbrand{display:flex;align-items:center;gap:12px}.fbrand img{width:46px;height:46px;object-fit:contain;filter:drop-shadow(0 4px 10px rgba(0,0,0,.4))}
 .foot h4{margin-bottom:12px;font-size:12.5px;font-weight:800;letter-spacing:.1em;text-transform:uppercase;color:#ffd9a0}
 #fnav,#fsoc{display:flex;flex-direction:column;flex-wrap:wrap;gap:2px;align-content:start}#fnav a,#fsoc a{color:#c6b49b;font-weight:500;font-size:15px;transition:color .2s;min-height:32px;display:inline-flex;align-items:center}#fnav a:hover,#fsoc a:hover{color:#fff}
 .fb .btn{margin-top:16px}
 footer .btn.ghost{background:rgba(255,226,170,.08);border-color:rgba(244,196,120,.28);color:#f8efe0}
 .copy{width:min(1200px,100% - 2*var(--gx));margin:34px auto 0;padding-top:22px;border-top:1px solid rgba(244,196,120,.18);font-size:13.5px;color:#c6b49b}
-.wm{pointer-events:none;user-select:none;text-align:center;font-family:var(--serif);font-weight:800;letter-spacing:-.04em;line-height:.85;font-size:clamp(3rem,16vw,13rem);white-space:nowrap;overflow:hidden;margin:34px auto 0;color:transparent;background:linear-gradient(180deg,rgba(242,176,80,.32),transparent 88%);-webkit-background-clip:text;background-clip:text}
+.wm{pointer-events:none;user-select:none;text-align:center;font-family:var(--serif);font-weight:800;letter-spacing:-.04em;line-height:.85;font-size:clamp(5rem,30vw,17rem);white-space:nowrap;overflow:hidden;margin:34px auto 0;color:transparent;background:linear-gradient(180deg,rgba(242,176,80,.32),transparent 88%);-webkit-background-clip:text;background-clip:text}
 
 /* FAB */
 .fab{position:fixed;right:max(16px,env(safe-area-inset-right));bottom:max(16px,env(safe-area-inset-bottom));z-index:40;display:flex;align-items:center;gap:9px;height:58px;padding:0 20px 0 16px;border-radius:99px;background:linear-gradient(135deg,#25d366,#128c4a);color:#fff;font-weight:700;font-size:15px;box-shadow:0 12px 30px rgba(37,211,102,.45);transition:transform .2s}
@@ -353,6 +354,7 @@ html:not(.js) .ld{display:none}
 .ld-ring .val{stroke:url(#ldg);stroke-width:2.6;stroke-dasharray:100;stroke-dashoffset:100;opacity:0;filter:drop-shadow(0 0 5px rgba(242,176,80,.8))}
 .ld-name{display:flex;flex-wrap:wrap;justify-content:center;column-gap:.3em;margin-top:32px;font:800 clamp(2rem,9vw,2.6rem)/1.08 var(--serif)}
 .ld-name b{display:inline-flex;font-weight:inherit}
+.ld-name b.sub{flex-basis:100%;justify-content:center;gap:.32em;margin-top:.18em;font:700 .42em/1.2 var(--font);letter-spacing:.16em;text-transform:uppercase}
 .ld-name i{font-style:normal;display:inline-block;padding-bottom:.08em;background:var(--ld-grad);-webkit-background-clip:text;background-clip:text;color:transparent;opacity:0;transform:translateY(.55em);filter:blur(6px);animation:ldch .8s cubic-bezier(.2,.8,.2,1) calc(.3s + var(--i)*.05s) both}
 @keyframes ldch{to{opacity:1;transform:none;filter:none}}
 .ld-tag{margin-top:8px;font-size:13.5px;color:var(--ld-mut);letter-spacing:.03em;animation:ldup .8s .75s both}
@@ -405,7 +407,7 @@ html:not(.js) .ld{display:none}
 }
 @media(max-width:600px){.hero h1{font-size:clamp(2.1rem,9vw,2.6rem)}}
 @media(max-width:420px){.fab b{display:none}.fab{width:58px;padding:0;justify-content:center}}
-@media(max-width:380px){.logo span{font-size:17px}.nav-in{gap:6px;padding-left:8px}}
+@media(max-width:380px){.logo span{font-size:20px}.nav-in{gap:6px;padding-left:8px}}
 @media(prefers-reduced-motion:reduce){*,*:before,*:after{animation:none!important;transition:none!important;scroll-behavior:auto!important}.js .rv{opacity:1;transform:none}.js .hero-txt>*,.js .vis,.ld-name i{opacity:1;transform:none;filter:none}}
 
 
@@ -503,3 +505,38 @@ h1,h2{filter:drop-shadow(0 2px 3px rgba(0,0,0,.4))}
 .win:after{content:"";position:absolute;inset:0;pointer-events:none;background:linear-gradient(115deg,rgba(255,255,255,.2),rgba(255,255,255,0) 38%,rgba(255,255,255,0) 70%,rgba(255,255,255,.07))}
 /* banner install: solid, tidak tembus */
 .ib{background-color:var(--bg2);background-image:linear-gradient(var(--veil2),var(--veil2)),var(--wood);background-size:auto,960px;box-shadow:0 22px 50px var(--shadow),inset 0 1px 0 var(--hl)}
+
+/* ===== v10: header kaca (glass) 2026 · logo menonjol · tanpa tabrakan ===== */
+:root{--nav:66px}
+.nav-in{height:var(--nav);padding:0 8px 0 14px;gap:8px;
+  background:linear-gradient(180deg,rgba(44,31,20,.8),rgba(22,15,10,.74));
+  -webkit-backdrop-filter:blur(18px) saturate(1.5);backdrop-filter:blur(18px) saturate(1.5);
+  border:1px solid rgba(244,196,120,.24);
+  box-shadow:0 18px 40px -12px rgba(0,0,0,.65),inset 0 1px 0 rgba(255,226,170,.16),inset 0 -1px 0 rgba(0,0,0,.35);
+  transition:height .3s ease,background .3s ease,box-shadow .3s ease}
+[data-theme=light] .nav-in{background:linear-gradient(180deg,rgba(255,252,246,.88),rgba(250,241,226,.82));border-color:rgba(110,72,32,.24);
+  box-shadow:0 18px 40px -14px rgba(90,55,20,.38),inset 0 1px 0 #fff,inset 0 -1px 0 rgba(120,80,35,.18)}
+.nav.scrolled .nav-in{height:58px;background:linear-gradient(180deg,rgba(40,28,18,.92),rgba(20,14,9,.9))}
+[data-theme=light] .nav.scrolled .nav-in{background:linear-gradient(180deg,rgba(255,252,246,.95),rgba(250,241,226,.92))}
+/* logo + nama lengkap tepat di bawahnya */
+.logo{flex-direction:column;align-items:center;justify-content:center;gap:1px;flex:none;margin-right:auto;padding-left:2px}
+.logo img{width:auto;height:40px;max-width:none;margin:0;transition:height .3s ease;filter:drop-shadow(0 0 12px rgba(242,176,80,.3)) drop-shadow(0 2px 4px rgba(0,0,0,.45))}
+.nav.scrolled .logo img{height:34px}
+[data-theme=light] .logo img{filter:drop-shadow(0 2px 3px rgba(90,50,10,.3))}
+.logo span{display:block;border:0;padding:0;line-height:1;font-size:10.5px}
+.logo span i{display:block;margin:0;font-family:var(--font);font-style:normal;font-weight:800;font-size:10.5px;line-height:1.2;letter-spacing:.05em;white-space:nowrap;text-transform:none;color:var(--acc);text-shadow:0 1px 2px rgba(0,0,0,.35)}
+[data-theme=light] .logo span i{color:#8c3b08;text-shadow:none}
+@media(max-width:380px){.logo span i{font-size:9.5px;letter-spacing:.03em}.logo img{height:36px}}
+@media(max-width:1099px){
+  #menu{background:linear-gradient(180deg,rgba(44,31,20,.94),rgba(22,15,10,.94));-webkit-backdrop-filter:blur(20px);backdrop-filter:blur(20px);border-color:rgba(244,196,120,.24)}
+  [data-theme=light] #menu{background:linear-gradient(180deg,rgba(255,252,246,.96),rgba(250,241,226,.95))}
+}
+.icon-btn{background:rgba(255,255,255,.06)}[data-theme=light] .icon-btn{background:rgba(255,255,255,.7)}
+/* hero: kaca halus pada lencana & kartu statistik */
+.badge,.stats{-webkit-backdrop-filter:blur(10px);backdrop-filter:blur(10px)}
+.ld-mark{width:clamp(230px,64vw,320px);aspect-ratio:260/100}
+.ld-mark img{width:88%}
+.ld-name{margin-top:26px}
+.ld-name b.sub{font-size:.5em;margin-top:0}
+.photo .bcard img{width:78%}
+.fbrand img{width:auto;height:64px}

diff --git a/sw.js b/sw.js
@@ -1,7 +1,7 @@
-/* ABY Digital — service worker (ringan): halaman utama bisa dibuka cepat & offline */
-const VER = "aby-v5";
+/* ADS (Abi Digital Solutions) — service worker (ringan): halaman utama bisa dibuka cepat & offline */
+const VER = "ads-v11";
 const CORE = ["./", "index.html", "style.css", "script.js", "bugs.js", "manifest.webmanifest", "favicon.png", "apple-touch-icon.png",
-  "assets/logo-128.webp", "assets/logo-384.webp", "assets/tex/wood-dark.webp", "assets/tex/wood-light.webp", "assets/tex/grain.png", "icons/icon-192.png", "icons/icon-512.png"];
+  "assets/logo-wide.webp", "assets/tex/wood-dark.webp", "assets/tex/wood-light.webp", "assets/tex/grain.png", "icons/icon-192.png", "icons/icon-512.png"];
 
 self.addEventListener("install", e => {
   e.waitUntil(caches.open(VER).then(c => Promise.all(CORE.map(u => c.add(u).catch(() => {})))).then(() => self.skipWaiting()));

diff --git a/bugs.js b/bugs.js
@@ -1,4 +1,4 @@
-/* ABY Digital — serangga lalu-lalang di latar kayu.
+/* ADS (Abi Digital Solutions) — serangga lalu-lalang di latar kayu.
    Satu <canvas>, tanpa library/gambar. Berhenti otomatis saat tab tersembunyi / tidak ada serangga.
    Nonaktif otomatis: "reduce motion" & "hemat data". Matikan manual: CFG.enabled = false. */
 (() => {

diff --git a/README.md b/README.md
@@ -1,4 +1,4 @@
-# ABY Digital
+# ADS (Abi Digital Solutions)
 Website portfolio & katalog jasa (HTML + CSS + JavaScript murni, tanpa build). Desain 2026 bertema KAYU: mode terang (oak) & gelap (walnut) otomatis, tekstur papan kayu, bento layanan, portfolio dengan screenshot nyata + preview langsung.
 
 ## Cara pakai
@@ -18,13 +18,13 @@ Website portfolio & katalog jasa (HTML + CSS + JavaScript murni, tanpa build). D
 - Warna ada di `:root` (gelap) dan `[data-theme=light]` (terang) paling atas `style.css`.
 - Tekstur: `assets/tex/wood-dark.webp` & `wood-light.webp` (tile 1536×1024, ±115 KB per tema, prosedural via `wood-generator.py`) + `grain.png` (1 KB, bintik halus untuk kartu).
 - Pencahayaan: `body:after` di `style.css` (cahaya hangat + vignette, satu layer statis). Atur kekuatan tekstur lewat `--veil` / `--veil2`.
-- Logo: `assets/logo-*.webp`, `favicon.png`, `apple-touch-icon.png`, `icons/`.
+- Logo: `assets/logo-wide.webp` (logo kayu & emas, transparan), `assets/logo-*.webp`, `favicon.png`, `apple-touch-icon.png`, `icons/`.
 
 ## Foto profil (opsional)
 Bagian Tentang memakai kartu brand. Untuk foto sendiri: taruh di `assets/profile.jpg` lalu isi `photo: "assets/profile.jpg"` di CONFIG.
 
 ## PWA (bisa di-install)
-`manifest.webmanifest`, `sw.js`, folder `icons/`. Setelah publish di HTTPS (GitHub Pages), tombol Install muncul di HP/PC. iPhone: Bagikan → Tambah ke Layar Utama. Jika file diubah, naikkan `VER` di `sw.js` (mis. aby-v1) agar cache diperbarui.
+`manifest.webmanifest`, `sw.js`, folder `icons/`. Setelah publish di HTTPS (GitHub Pages), tombol Install muncul di HP/PC. iPhone: Bagikan → Tambah ke Layar Utama. Jika file diubah, naikkan `VER` di `sw.js` (mis. ads-v1) agar cache diperbarui.
 
 ## Setelah publish
 `og:image` / `og:url` di `index.html` sudah mengarah ke https://benyoriki.github.io/Digital/ — ganti jika domain berubah.
